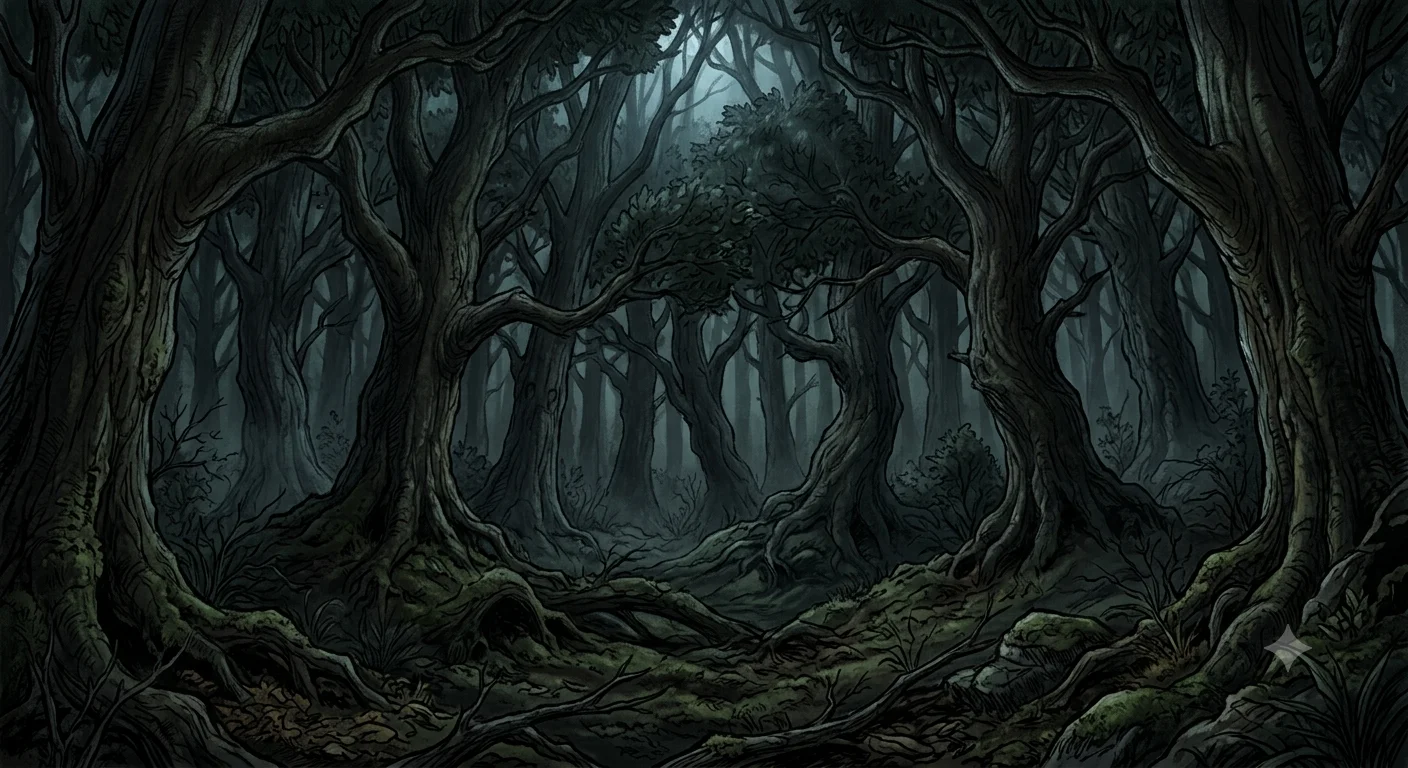
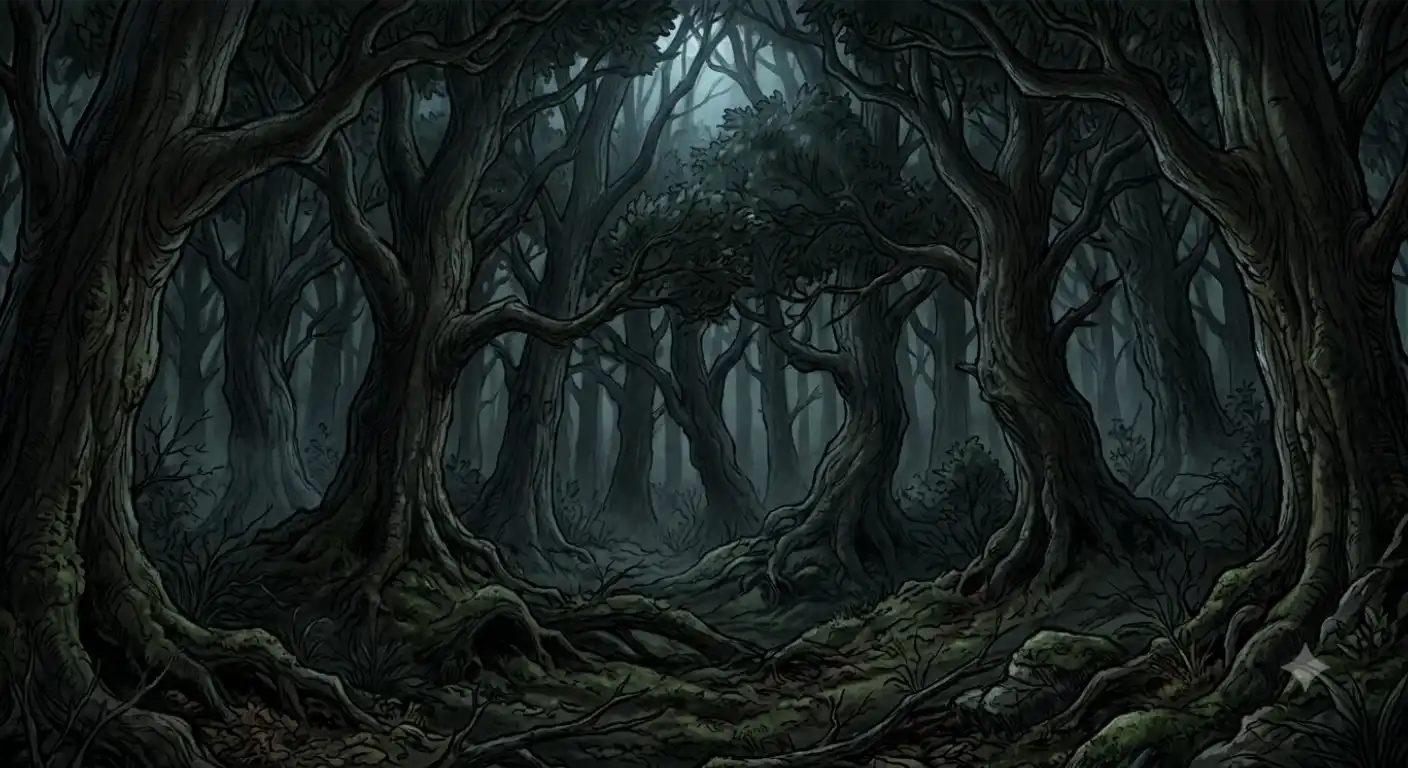
Add MIT license and update background imagery
Added MIT license file and replaced the dark forest background image with an updated version (dark_forest_2.jpeg). Also added robot_16.webp asset.

diff --git a/src/gameFormulas.js b/src/gameFormulas.js
@@ -1,5 +1,5 @@
 import BgGrassland from './Images/bg/grassland.webp';
-import BgDarkForest from './Images/bg/dark_forest.webp';
+import BgDarkForest from './Images/bg/dark_forest_2.jpeg';
 import BgDesert from './Images/bg/desert.webp';
 import BgMountains from './Images/bg/mountains.webp';
 import BgStorm from './Images/bg/storm.webp';
